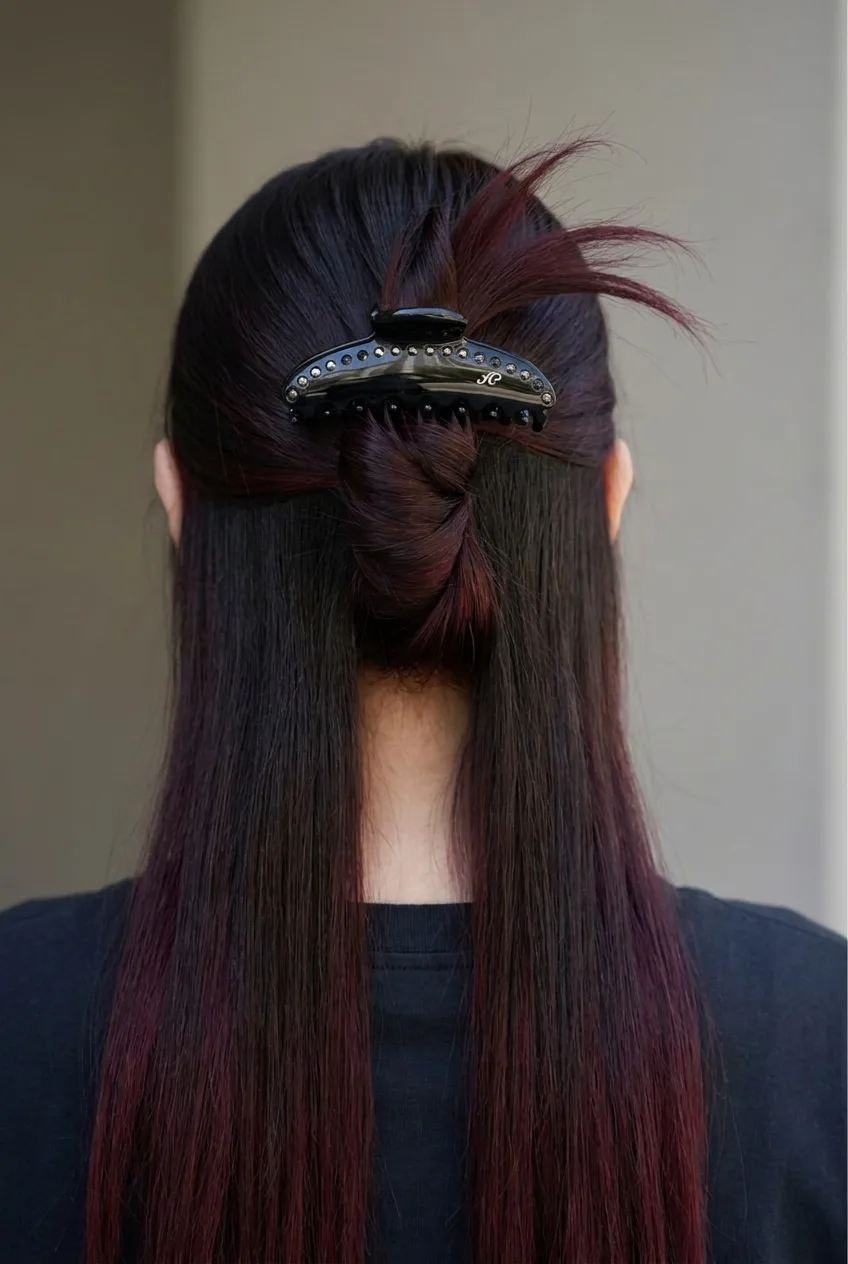
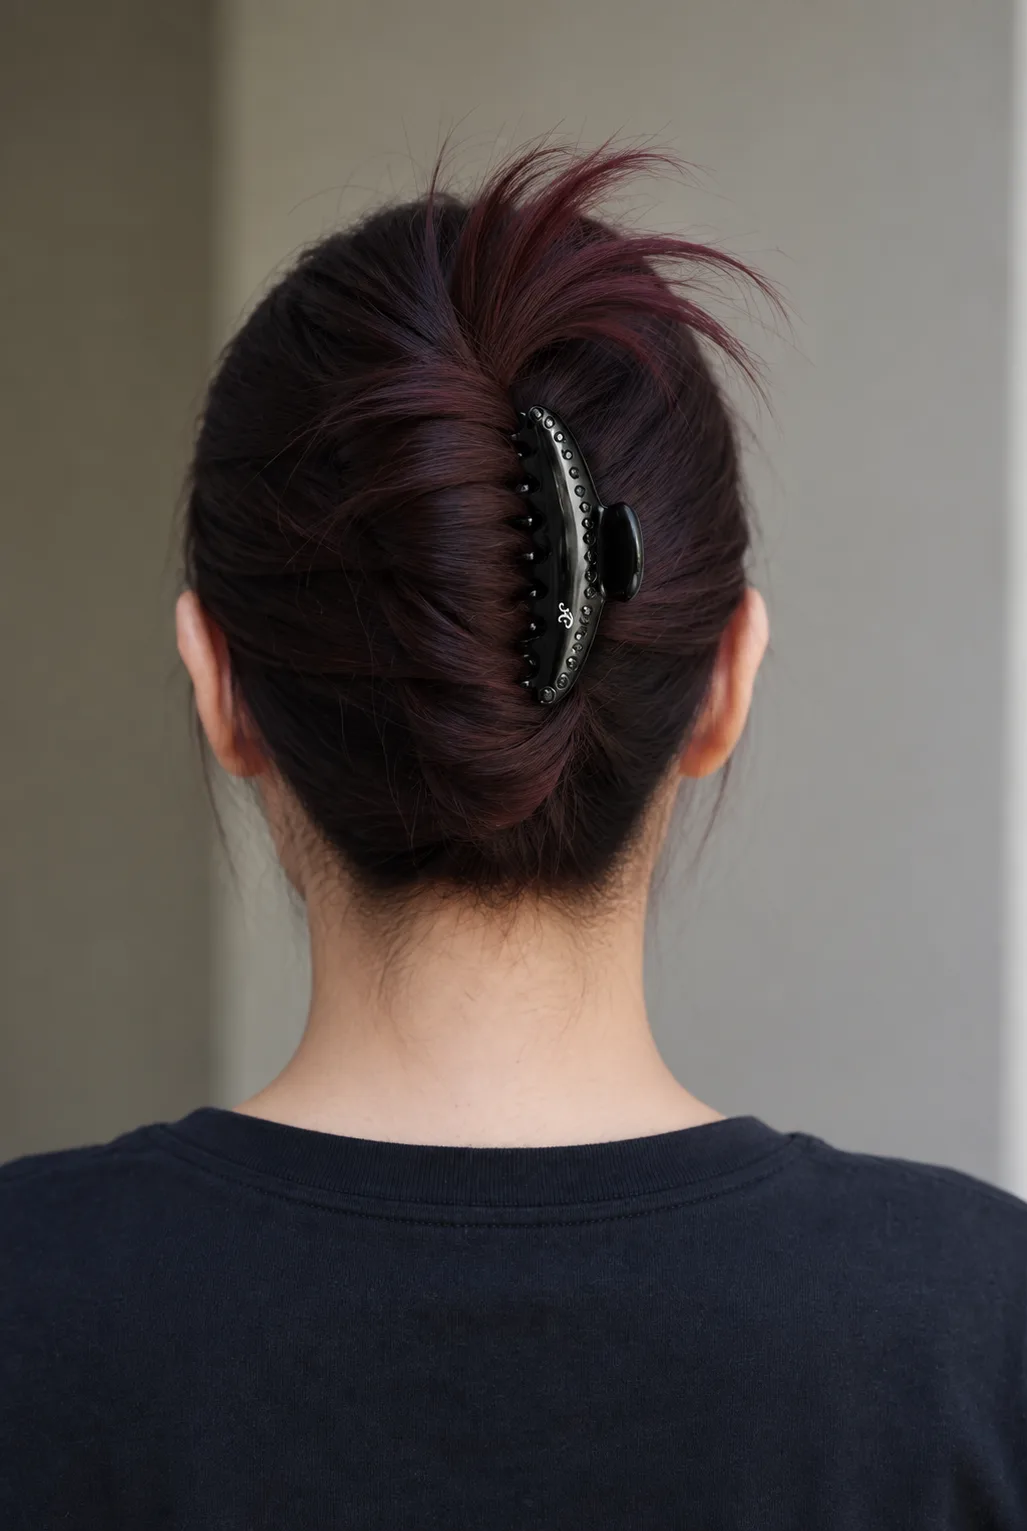
H07・H08 の装着イメージを縦向きに差し替え、H18 VENDOME M クリップ（ブラック）を追加

Changed region(s): [[0.0, 0.0926, 1.0, 1.0], [0.7972, 0.2468, 0.8278, 0.2777]]

diff --git a/catalog-data.js b/catalog-data.js
@@ -625,6 +625,39 @@ const DATA = {
    "photoExtra": true
   },
   {
+   "id": "H18",
+   "brand": "ALEXANDRE DE PARIS",
+   "name": "【VENDOME】M クリップ（ブラック）",
+   "model": "ICCM-15571-04（色 N3）",
+   "price": "34,100円",
+   "status": "条件付き",
+   "priceNote": "2026-09-19 に公式ページで確認（公式は在庫なし・再入荷メール受付）",
+   "notes": [
+    "商品：docx 作成後に追加（2026-09-19）。H17 の色違い。",
+    "写真：docx 作成後に公式ページから追加取得（2026-09-19）"
+   ],
+   "features": "黒の酢酸セルロースに、シャンパンゴールド系のスワロフスキー・クリスタルを散らしたヴァンドームクリップ。爪は24金プレート。フランス製。",
+   "reason": "定番のヴァンドームクリップを黒で。手持ちの服や黒い髪飾りと合わせやすい。",
+   "caution": "公式オンラインでは在庫なし（2026-09-19時点）。店舗在庫や再入荷の確認が必要。髪量・ねじり上げる習慣が不明。石の配置は個体差あり。",
+   "use": [
+    "まとめ髪"
+   ],
+   "links": [
+    {
+     "label": "公式・参照ページ",
+     "url": "https://alexandredeparis.co.jp/item/detail/1_1_ICCM-15571-04_1/N3"
+    }
+   ],
+   "images": {
+    "item": "images/products/H18_item.jpg"
+   },
+   "wearLabel": "",
+   "hasWearPhoto": false,
+   "cat": "hair",
+   "added": true,
+   "photoExtra": true
+  },
+  {
    "id": "J01",
    "brand": "Hirotaka",
    "name": "ゴールドクレスト スクエアイヤーカフ",
@@ -2293,7 +2326,7 @@ const DATA = {
    "label": "APPENDIX D",
    "title": "写真・情報の確認状況",
    "paras": [
-    "収録商品・シリーズ・体験：61項目（予算の上限 40,000円以上の16項目は外した）。docx 作成時点で単体写真を収録したものは29商品、人物の着用・使用例を収録したものは16商品です。ほかに単体写真を持つ商品でも、人物写真は未取得のものがあります。",
+    "収録商品・シリーズ・体験：62項目（予算の上限 40,000円以上の16項目は外した）。docx 作成時点で単体写真を収録したものは29商品、人物の着用・使用例を収録したものは16商品です。ほかに単体写真を持つ商品でも、人物写真は未取得のものがあります。",
     "写真を2種類とも収録した商品",
     "H01、H02、H03、H04、H05、H06、H10、H11、H12、J02、J03、J13、J15、L02、D02",
     "単体写真のみ収録した商品",

diff --git a/index.html b/index.html
@@ -12,7 +12,7 @@
   <link rel="preconnect" href="https://fonts.gstatic.com" crossorigin>
   <link href="https://fonts.googleapis.com/css2?family=Great+Vibes&family=Cormorant+Garamond:ital,wght@1,500&family=Shippori+Mincho:wght@500;700&family=Zen+Kaku+Gothic+New:wght@400;500;700&display=swap" rel="stylesheet">
   <!-- ?v= はキャッシュ対策。tools/prepare_publish.js が内容から自動更新する。手で変更しない。 -->
-  <link rel="stylesheet" href="style.css?v=fae581029400" />
+  <link rel="stylesheet" href="style.css?v=e2abf4d098a8" />
 </head>
 <body class="locked auth-pending">
   <!-- 最初に見えるのはこのログイン画面だけ。許可された2人のアカウントで共有データを読めたらカタログを開く（app.js の setLocked）。 -->
@@ -88,9 +88,9 @@
   </footer>
   </div>
 
-  <script src="catalog-data.js?v=fae581029400" defer></script>
-  <script src="tryon-data.js?v=fae581029400" defer></script>
-  <script src="app.js?v=fae581029400" defer></script>
+  <script src="catalog-data.js?v=e2abf4d098a8" defer></script>
+  <script src="tryon-data.js?v=e2abf4d098a8" defer></script>
+  <script src="app.js?v=e2abf4d098a8" defer></script>
 
   <!-- Firebase（★とメモを2人で共有）。旅程サイトと同じ汎用プロジェクト travel-itinerary-sites を共用し、
        このカタログのDBパスは app.js の DB_PATH（"gift-catalog-2026"）。

diff --git a/tryon-data.js b/tryon-data.js
@@ -67,5 +67,9 @@ const TRYON = {
  "H17": {
   "plain": "images/tryon/H17_plain.webp",
   "red": "images/tryon/H17_red.webp"
+ },
+ "H18": {
+  "plain": "images/tryon/H18_plain.webp",
+  "red": "images/tryon/H18_red.webp"
  }
 };
